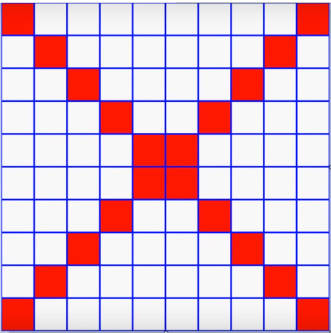
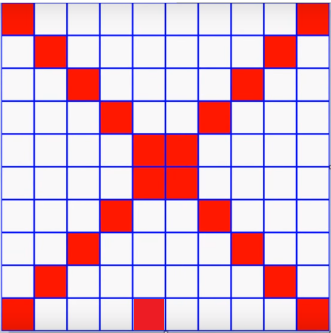
update_dem_o_vuong_do

Changed region(s): [[0.3927, 0.9009, 0.5136, 0.991]]

diff --git a/test_image_dem_o_vuong.py b/test_image_dem_o_vuong.py
@@ -6,11 +6,14 @@ img2 = cv2.resize(img2, (20, 20))
 x2= np.array(img2)
 #print(x2)
 count = 0
+count2 = 0
 for i in range(len(x2)):
    for y in range(len(x2[i])):
        if (x2.item((i,y)) == 90):
            count += 1
            #print('x2.item(('+str(i)+','+str(y)+')) '+str(count))
+       if (x2.item((i,y)) == 91):
+           count2 += 1
+           # print('x2.item(('+str(i)+','+str(y)+')) '+str(count))
 
-
-print((count+count/4)/4 +1) #2 dòng một ô, mỗi ô = 4 lần 90
+print((count+count/4+count2)/4 +1) #2 dòng một ô, mỗi ô = 4 lần 90
